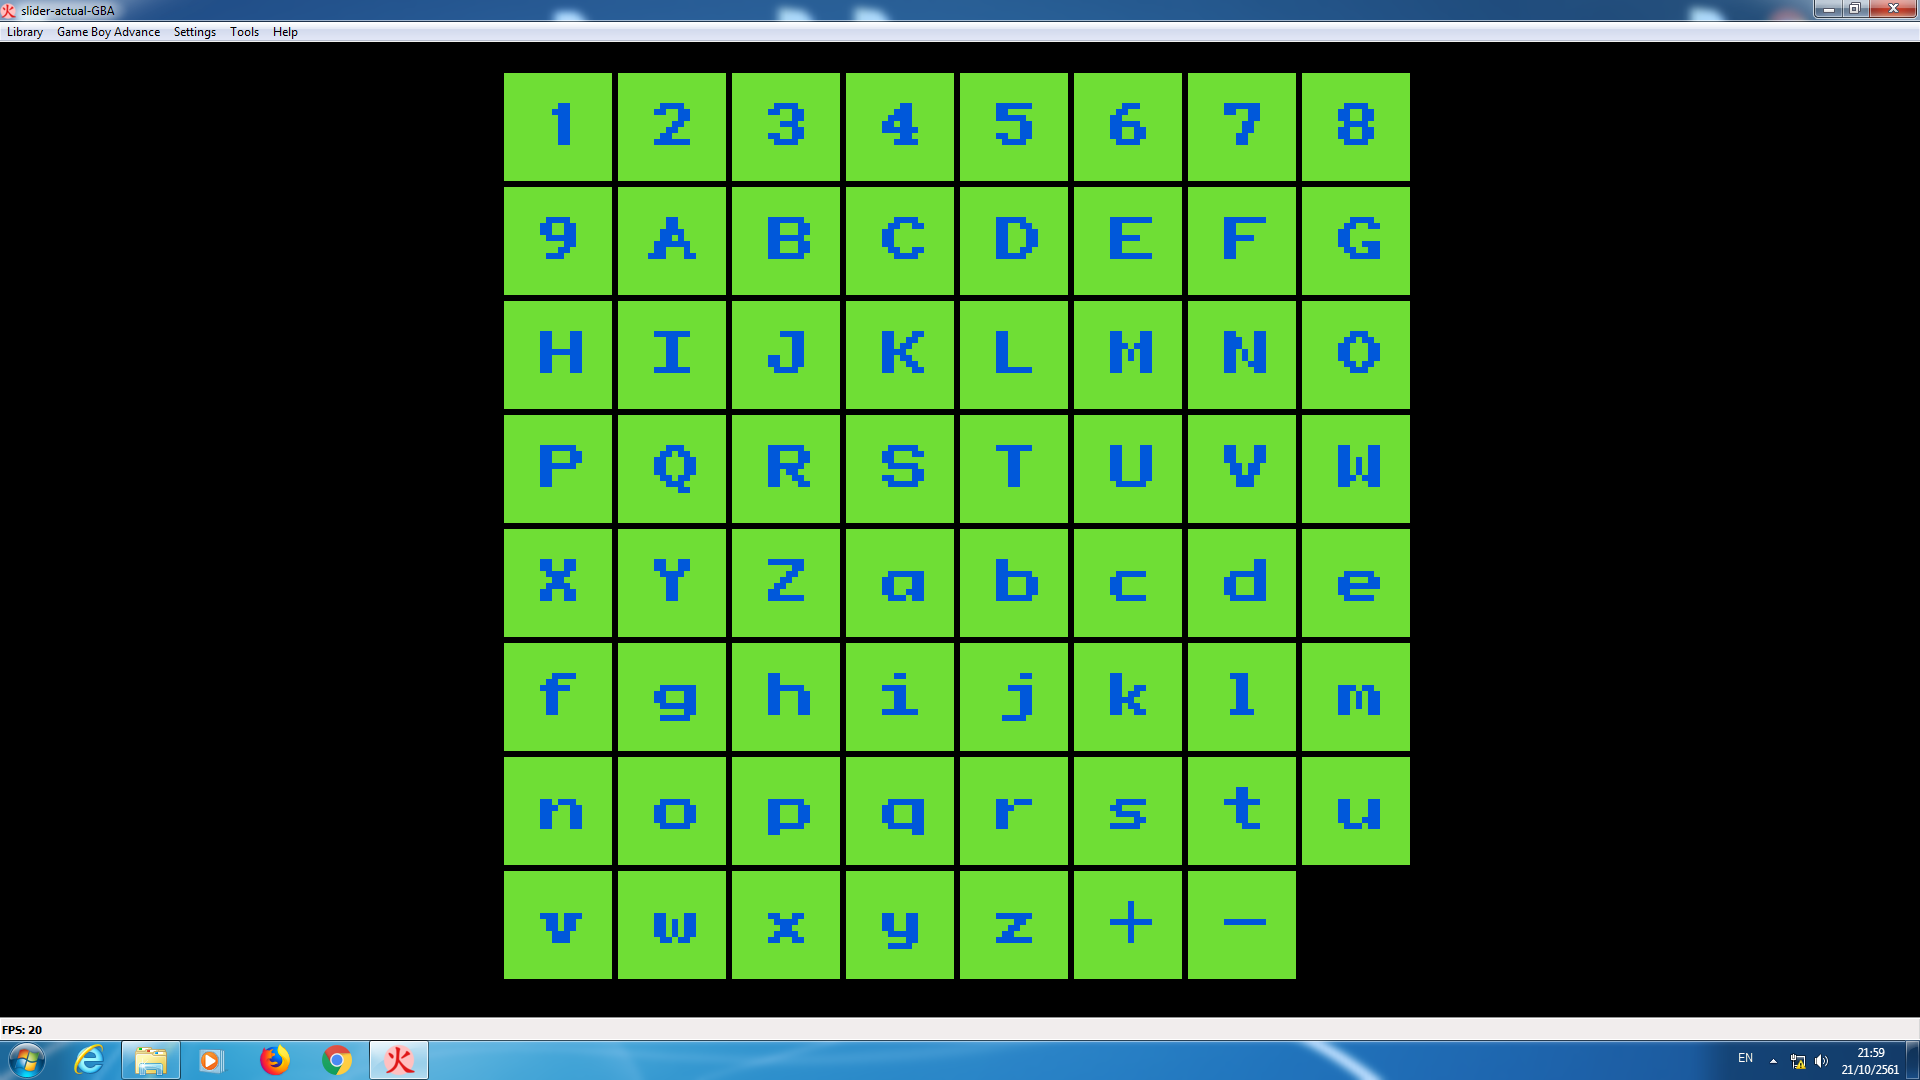
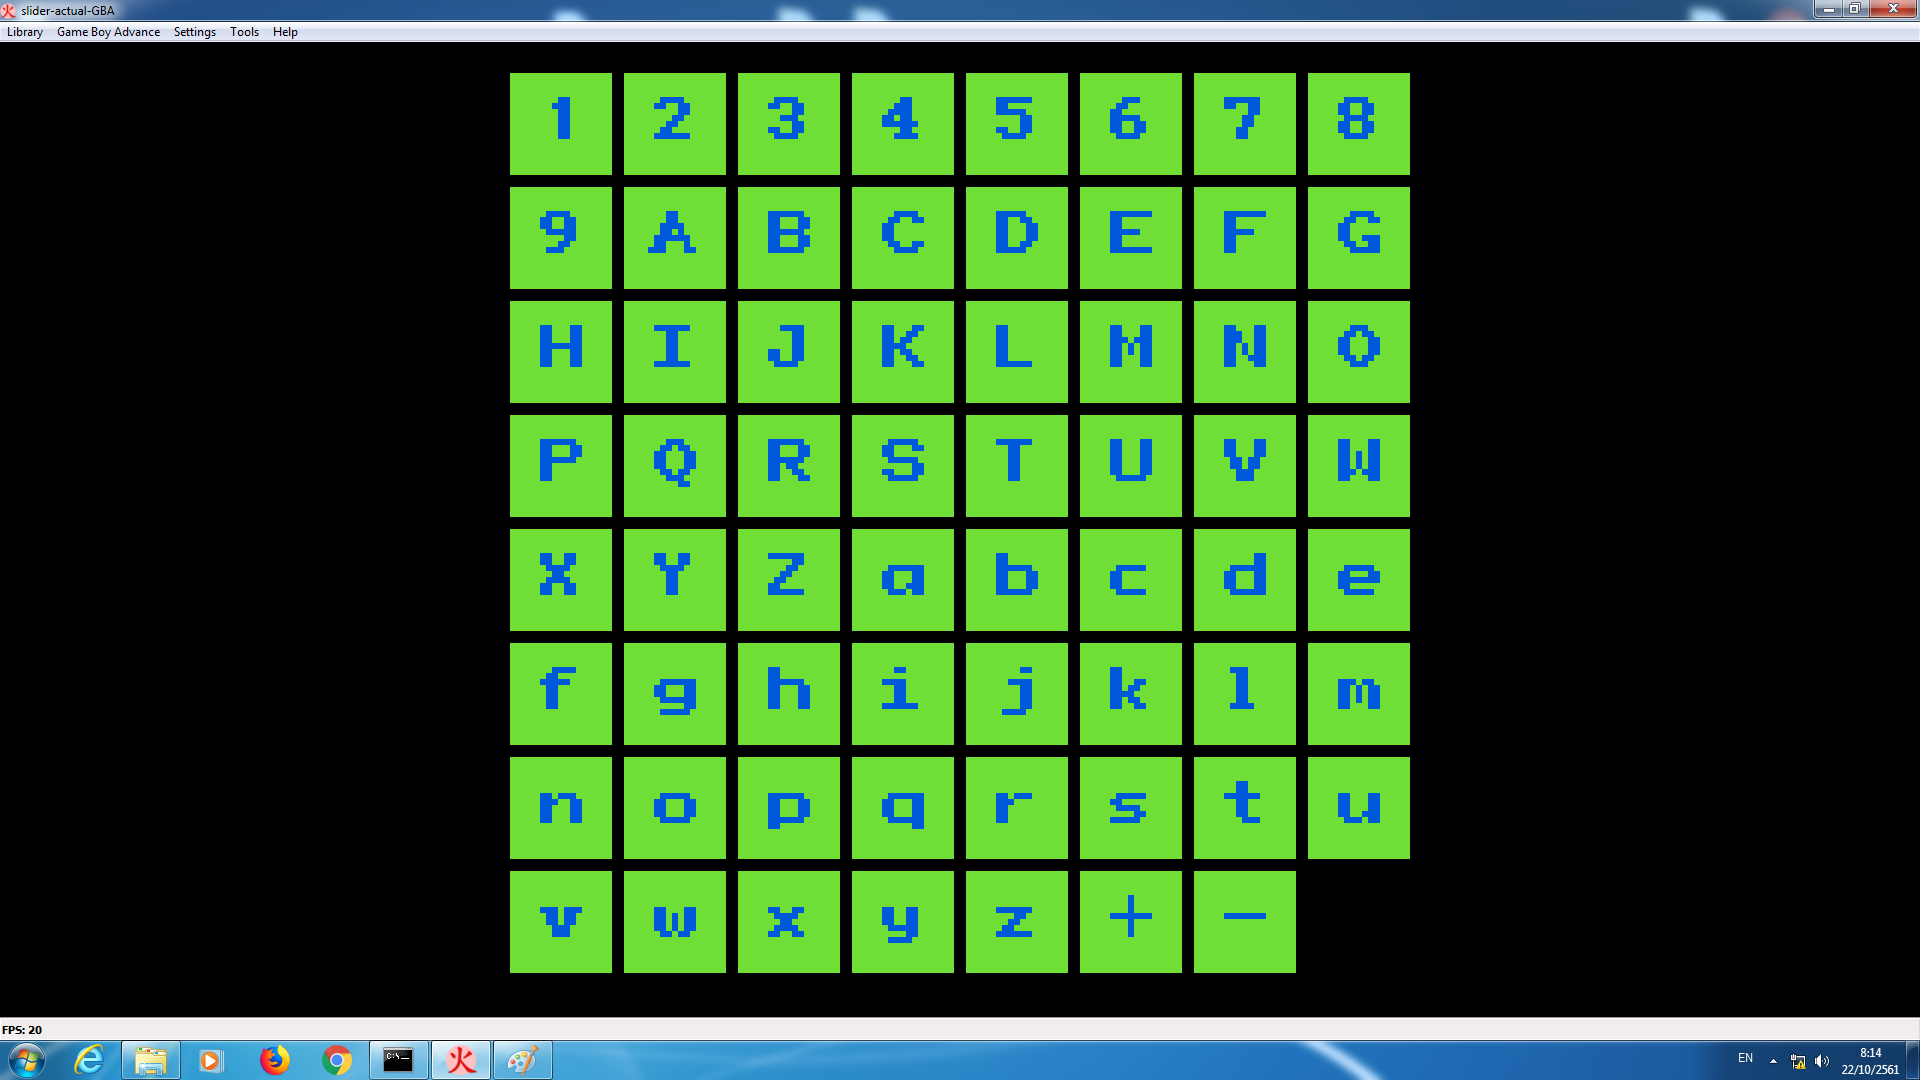
modified:   main.cpp 	modified:   res/complete-slider.png 	modified:   res/slider.png 	modified:   rom/slider-actual-GBA.gba 	modified:   rom/slider.gba

diff --git a/main.cpp b/main.cpp
@@ -39,7 +39,7 @@ static_assert(WxH*WxH==slen(sqlist)-1,"WxH*WxH !=slen(sqlist) => It's not square
 //********************** Graphic ***********************//
 #define FRGAP 4
 
-#define RGAP 1
+#define RGAP 2
 #define CGAP RGAP
 
 
